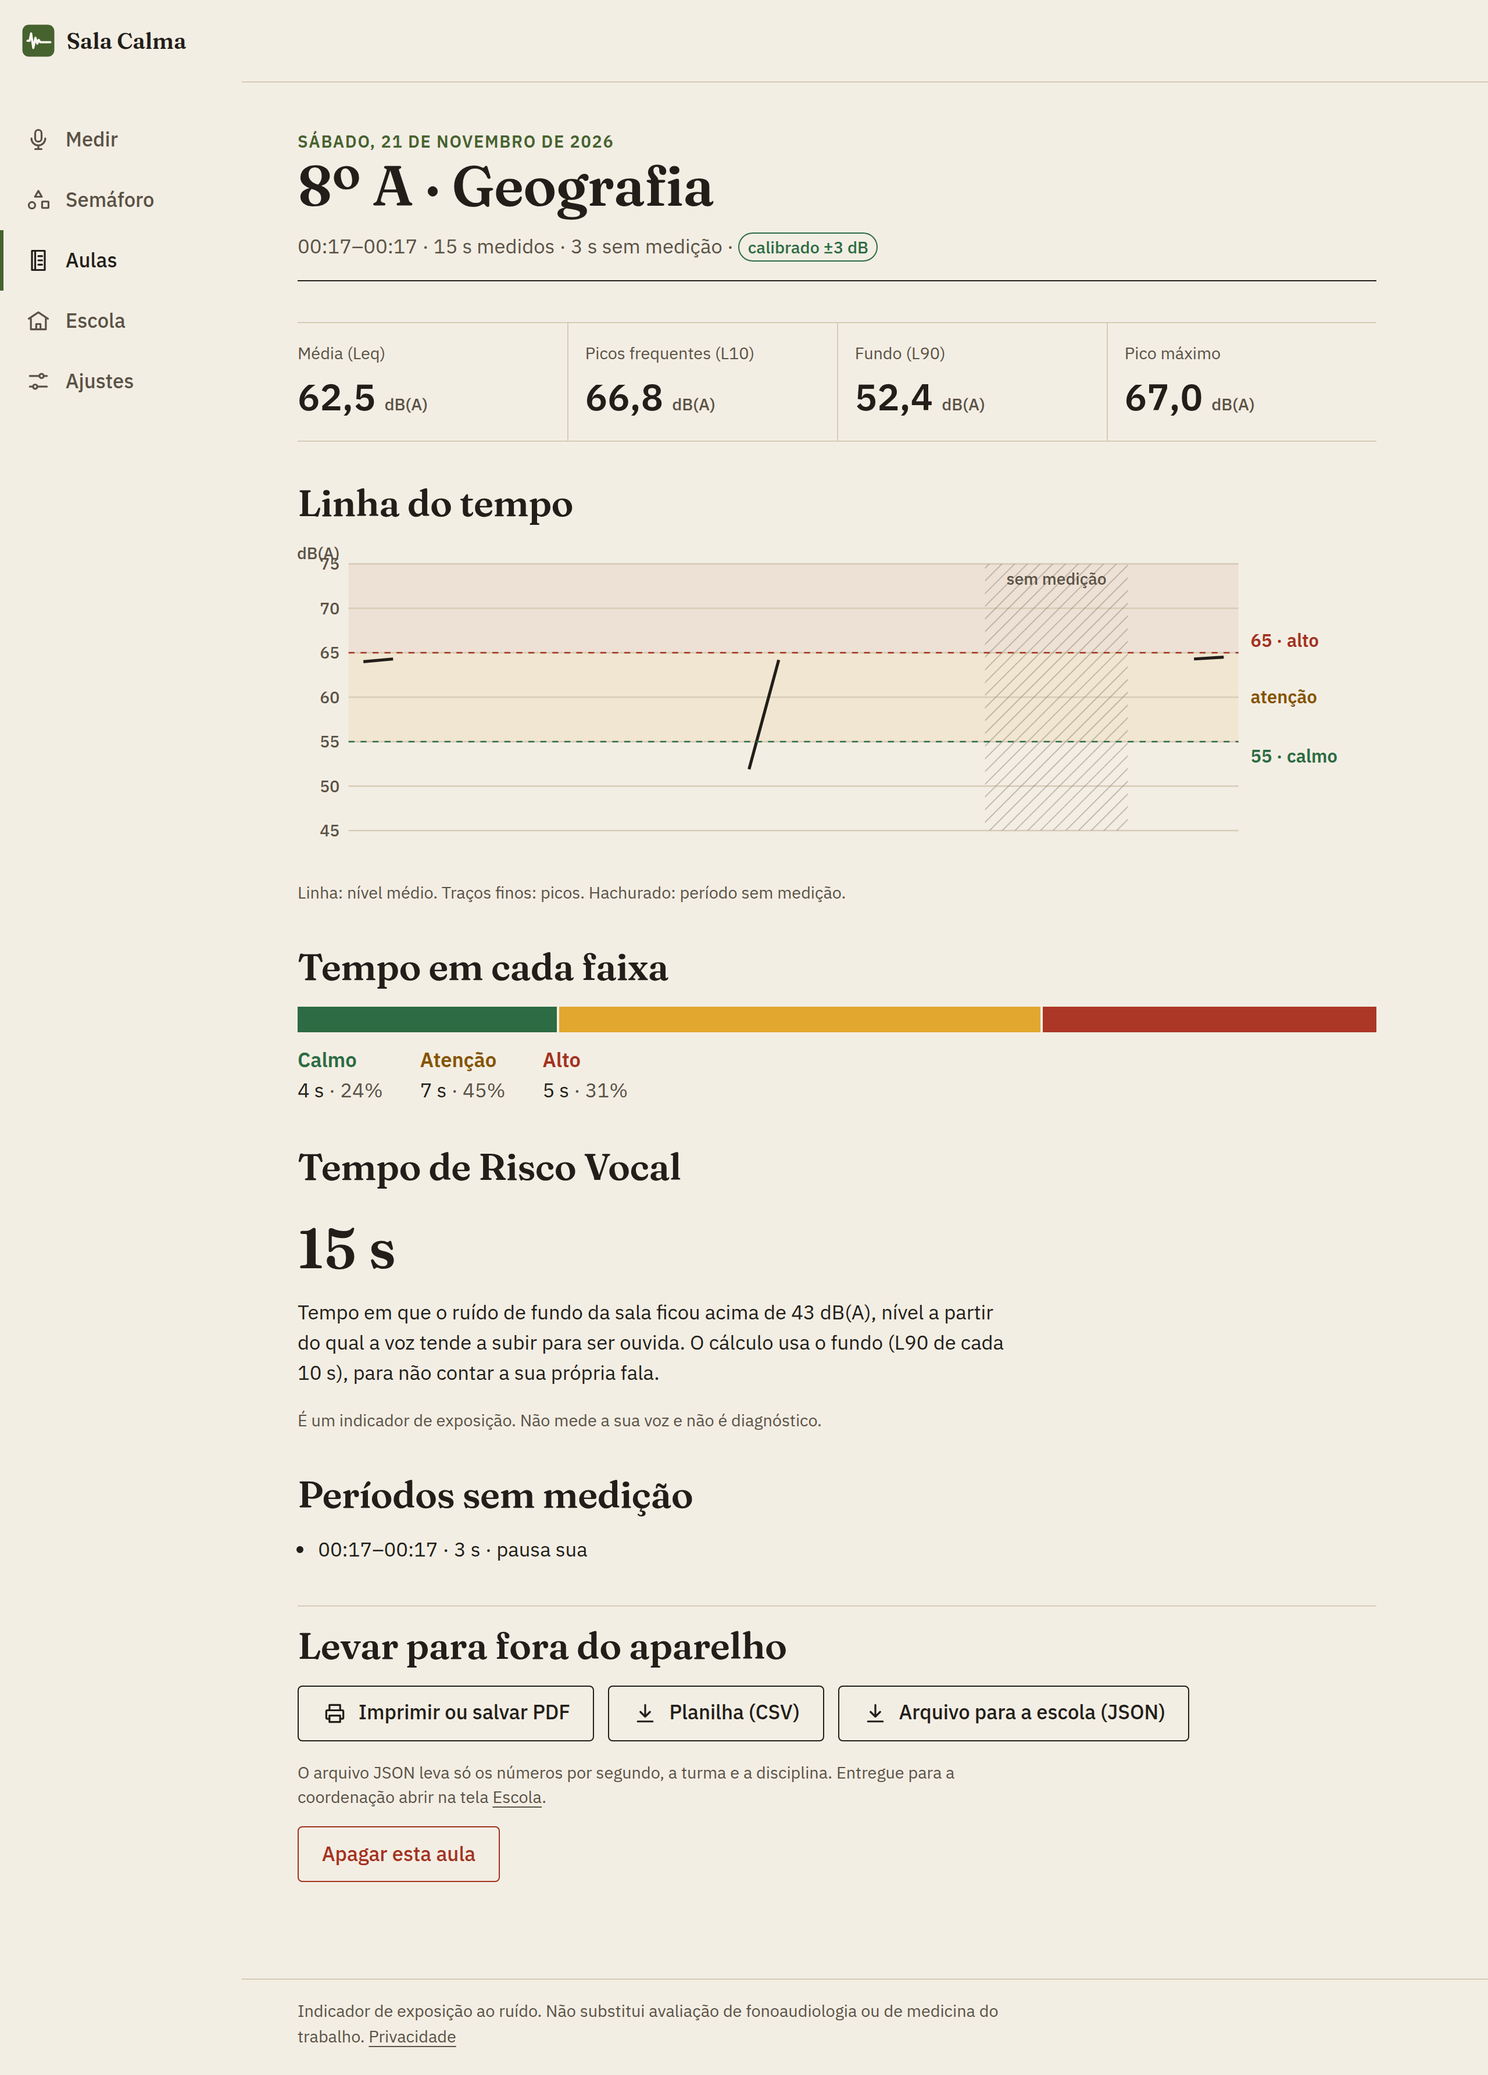
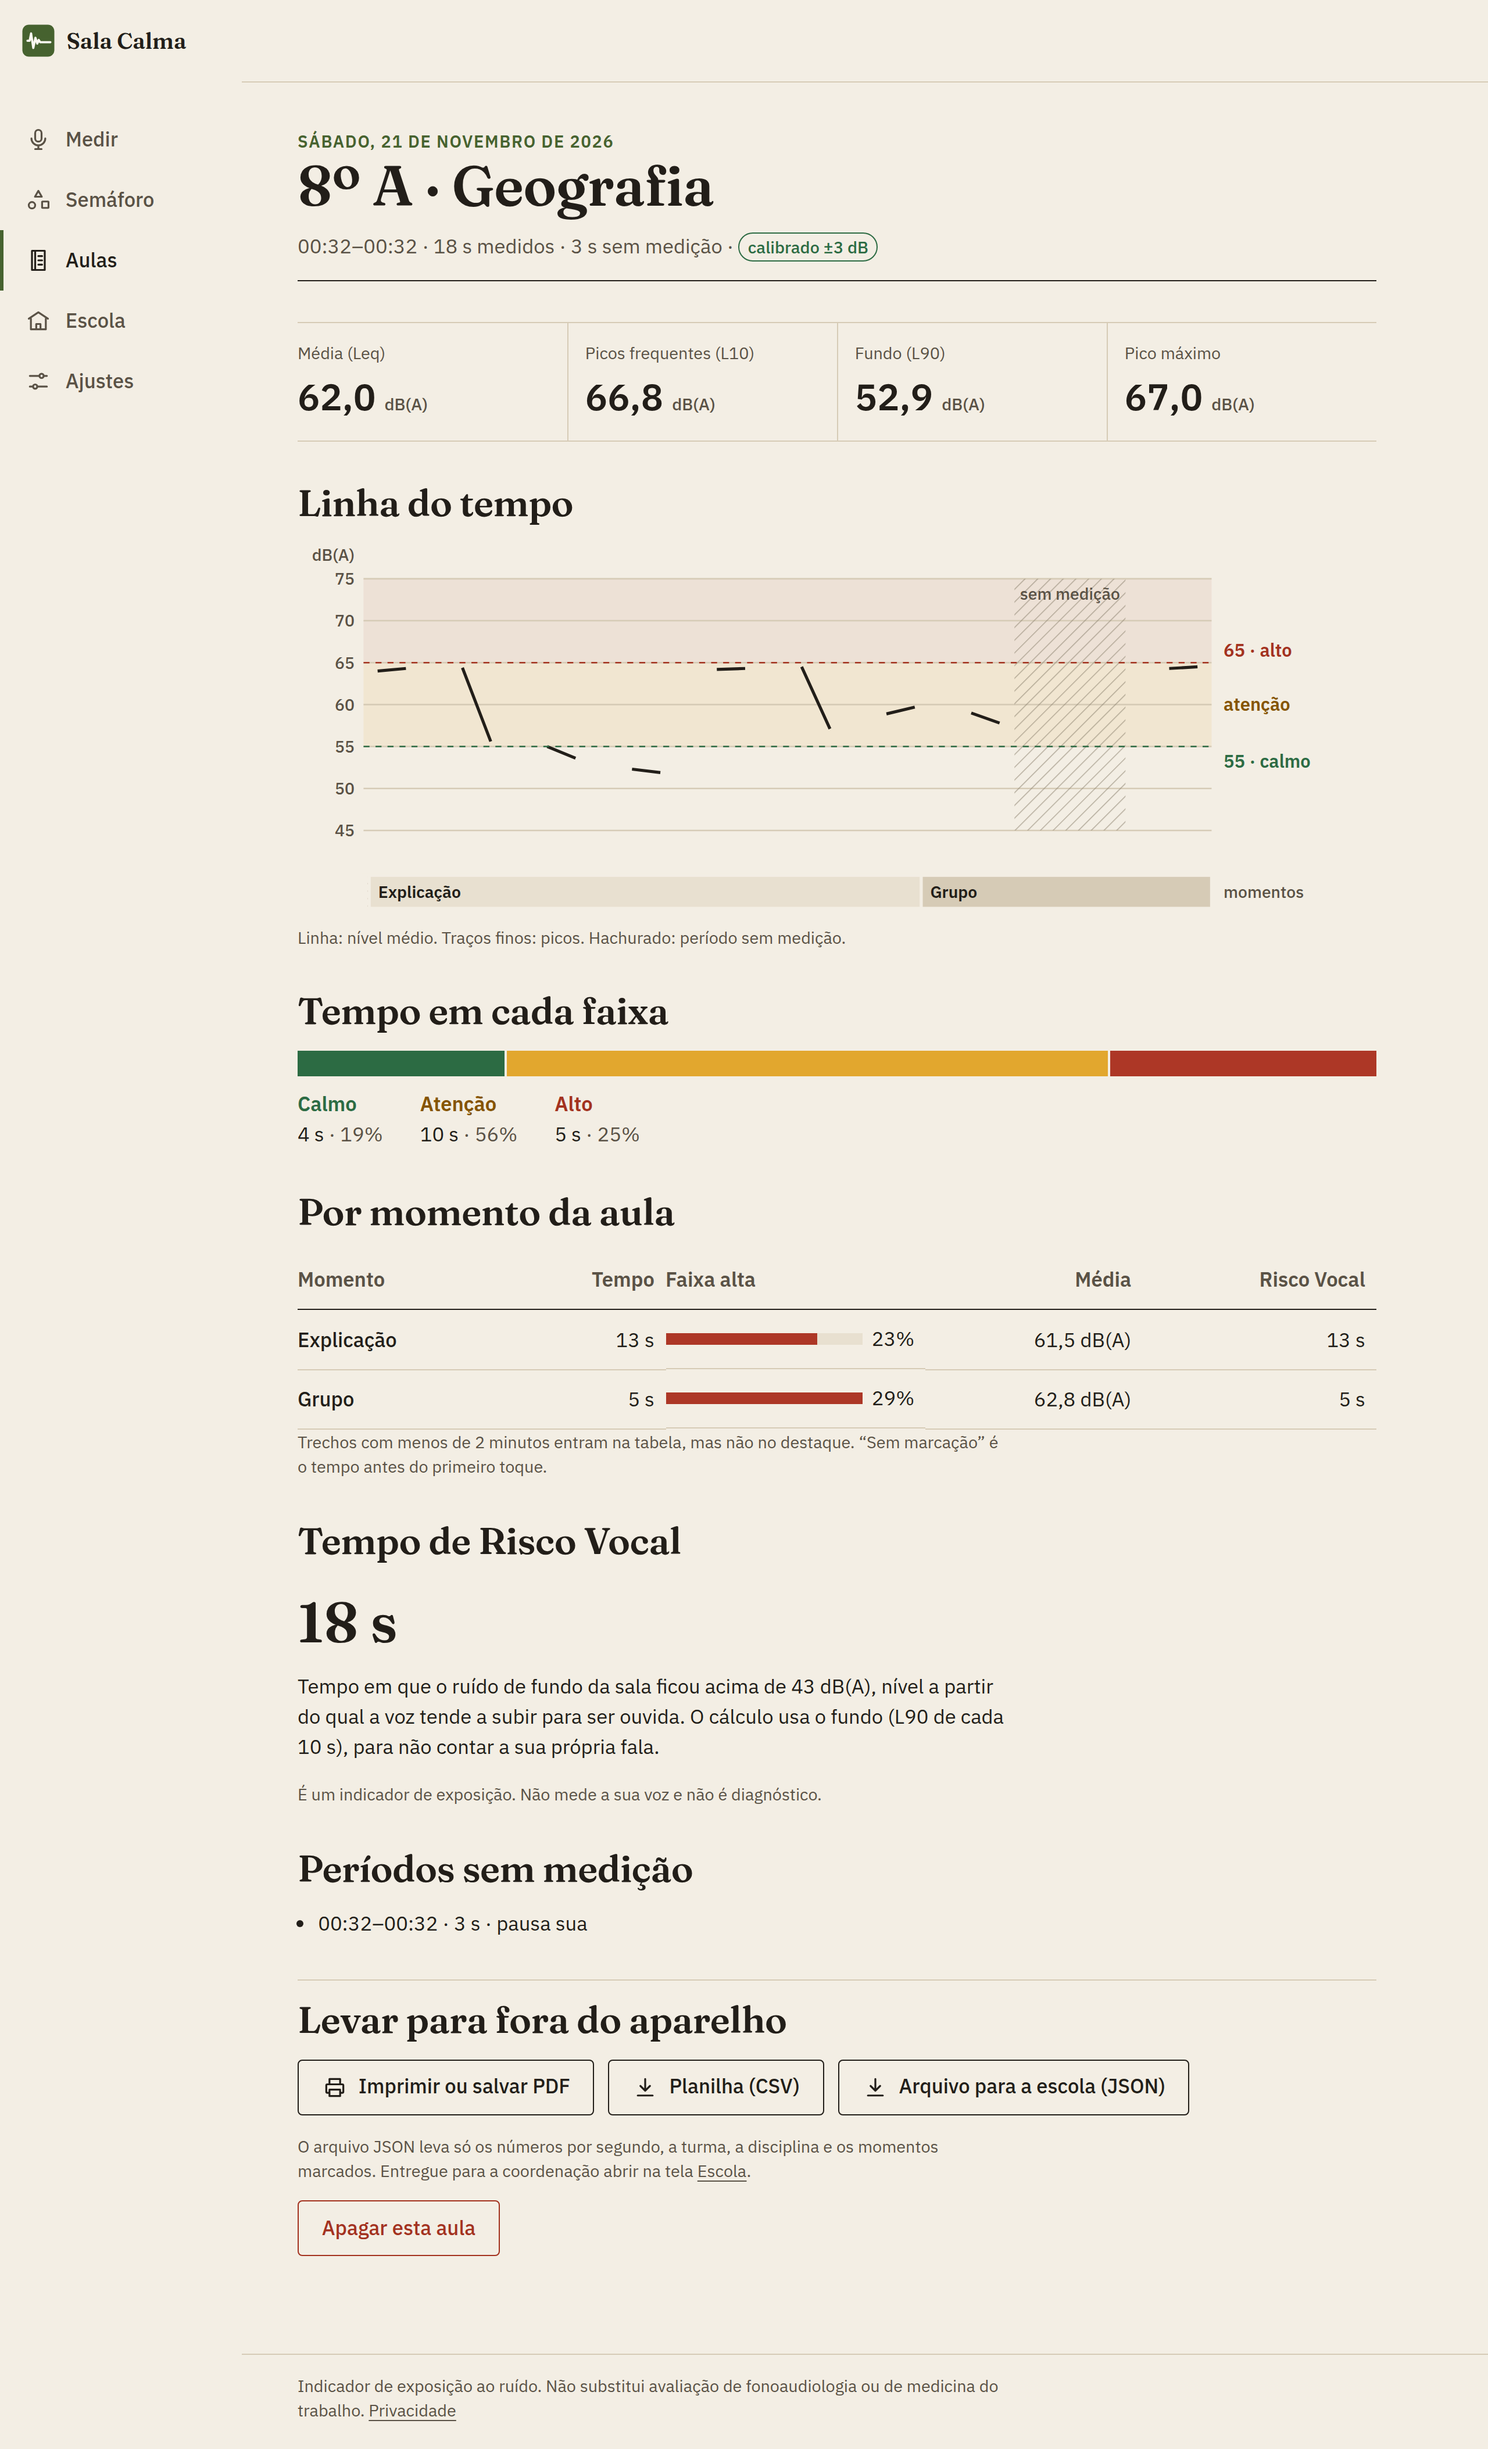
docs: README e página inicial com momentos da aula; e2e cobre a marcação

diff --git a/README.md b/README.md
@@ -10,9 +10,9 @@ Medidor de ruído para a sala de aula. Usa o microfone do celular, **não grava 
 | --- | --- | --- |
 | <img src="docs/screenshots/medir-ao-vivo-390.png" width="220" alt="Tela de medição com a faixa Atenção e 55 dB(A)"> | <img src="docs/screenshots/semaforo-1280.png" width="320" alt="Semáforo em tela cheia na faixa Alto"> | <img src="docs/screenshots/relatorio-1280.png" width="260" alt="Relatório com linha do tempo, tempo por faixa e Tempo de Risco Vocal"> |
 
-| Evolução | Sala vazia | |
+| Momentos da aula | Evolução | Sala vazia |
 | --- | --- | --- |
-| <img src="docs/screenshots/evolucao-390.png" width="220" alt="Evolução: esta semana, barras por semana e tabela por turma"> | <img src="docs/screenshots/sala-vazia-390.png" width="220" alt="Medição da sala vazia comparada com 35 dB(A) da OMS"> | |
+| <img src="docs/screenshots/momentos-390.png" width="220" alt="Botões para marcar o momento da aula durante a medição"> | <img src="docs/screenshots/evolucao-390.png" width="220" alt="Evolução: esta semana, barras por semana e tabela por turma"> | <img src="docs/screenshots/sala-vazia-390.png" width="220" alt="Medição da sala vazia comparada com 35 dB(A) da OMS"> |
 
 > As capturas vêm do teste automático, com um som de sala sintético. Não são medições reais.
 
